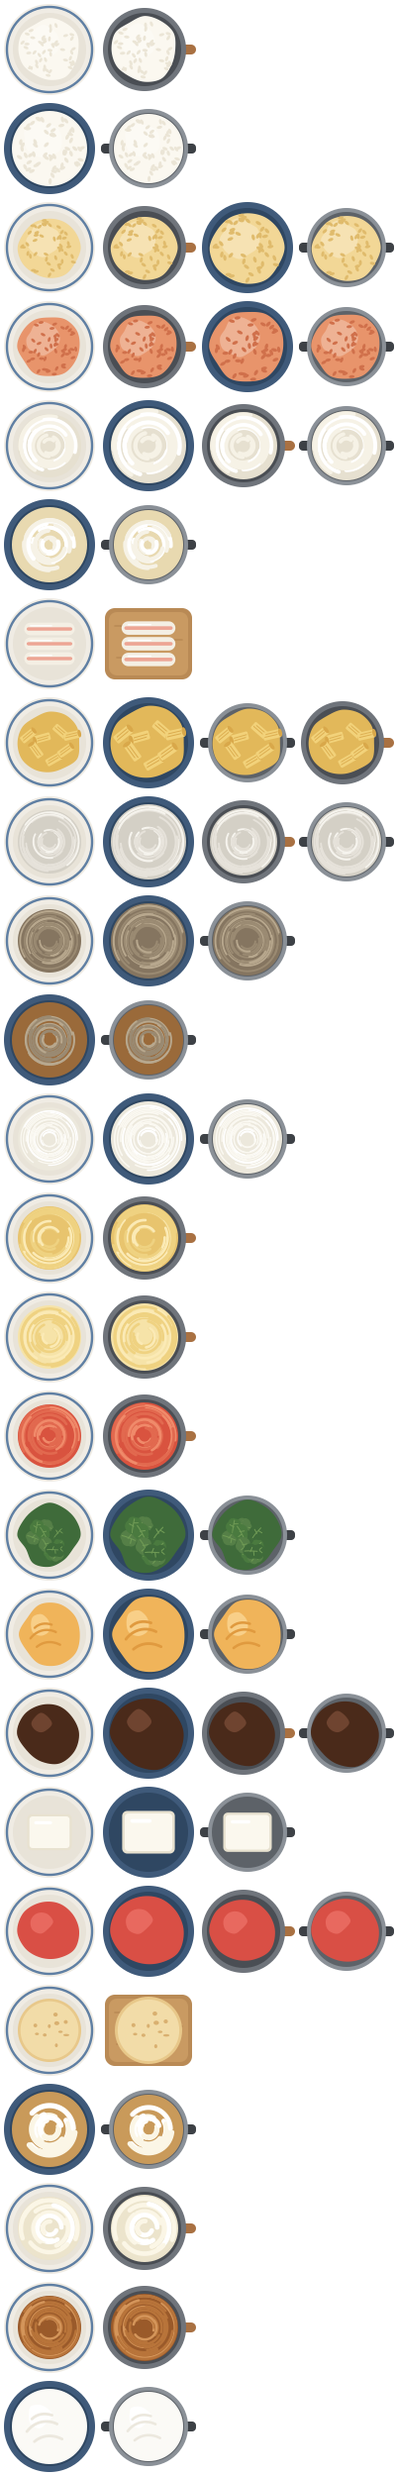
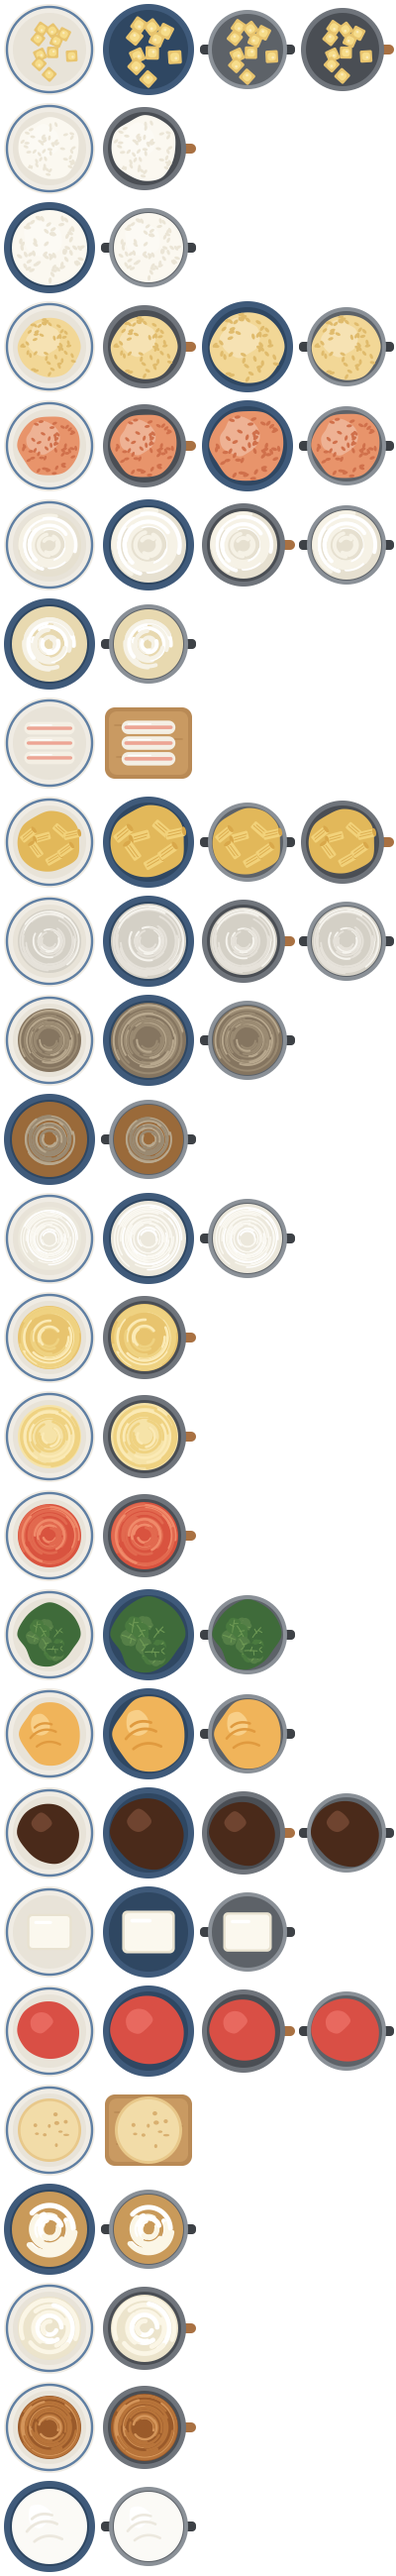
Add pasta as an ingredient

diff --git a/CulinaryIntelligence/Sources/CulinaryIntelligence/Models/IconCatalog.swift b/CulinaryIntelligence/Sources/CulinaryIntelligence/Models/IconCatalog.swift
@@ -272,6 +272,7 @@ public nonisolated enum IngredientCategory: String, CaseIterable, Identifiable, 
                 "oats",
                 "orzo",
                 "panko",
+                "pasta",
                 "penne",
                 "pita",
                 "polenta",
@@ -577,6 +578,7 @@ public nonisolated enum IconCatalog {
         "aji": "horse-mackerel",
         "ajinomoto": "msg",
         "amberjack": "yellowtail",
+        "angel hair": "spaghetti",
         "anise seed": "fennel-seeds",
         "aniseed": "fennel-seeds",
         "anzu": "apricot",
@@ -612,6 +614,7 @@ public nonisolated enum IconCatalog {
         "broth": "bouillon",
         "brown butter": "ghee",
         "brown mustard seeds": "mustard-seeds",
+        "bucatini": "spaghetti",
         "bulgogi sauce": "yakiniku-sauce",
         "buri": "yellowtail",
         "buri fillet": "yellowtail-fillet",
@@ -622,6 +625,7 @@ public nonisolated enum IconCatalog {
         "calamondin": "sudachi",
         "calf liver": "liver",
         "canned ham": "luncheon-meat",
+        "capellini": "spaghetti",
         "capsicum": "bell-pepper",
         "caraway": "fennel-seeds",
         "caraway seeds": "fennel-seeds",
@@ -669,6 +673,7 @@ public nonisolated enum IconCatalog {
         "cod steak": "cod-fillet",
         "comte": "gruyere",
         "comté": "gruyere",
+        "conchiglie": "pasta",
         "confectioners sugar": "icing-sugar",
         "corn flour": "cornstarch",
         "corn meal": "cornmeal",
@@ -700,6 +705,7 @@ public nonisolated enum IconCatalog {
         "dried cranberries": "cranberry",
         "dried fruit": "raisins",
         "dried onion": "onion-powder",
+        "dried pasta": "pasta",
         "dried prawns": "dried-shrimp",
         "dried radish strips": "kiriboshi-daikon",
         "dried shredded daikon": "kiriboshi-daikon",
@@ -711,6 +717,7 @@ public nonisolated enum IconCatalog {
         "emmental": "gruyere",
         "eringi": "king-oyster",
         "estragon": "tarragon",
+        "farfalle": "pasta",
         "fermented bamboo shoots": "menma",
         "filo": "puff-pastry",
         "fish cake": "kamaboko",
@@ -841,8 +848,10 @@ public nonisolated enum IconCatalog {
         "light treacle": "golden-syrup",
         "lilikoi": "passion-fruit",
         "lime leaves": "kaffir-lime-leaves",
+        "linguine": "spaghetti",
         "litchi": "lychee",
         "lo mein": "egg-noodles",
+        "long pasta": "pasta",
         "longan": "lychee",
         "low gluten flour": "cake-flour",
         "lox": "smoked-salmon",
@@ -880,12 +889,15 @@ public nonisolated enum IconCatalog {
         "okonomi sauce": "okonomiyaki-sauce",
         "onion granules": "onion-powder",
         "onion salt": "onion-powder",
+        "orecchiette": "pasta",
         "otafuku sauce": "okonomiyaki-sauce",
         "pacific saury": "saury",
         "pak choi": "bok-choy",
         "panir": "paneer",
+        "pappardelle": "fettuccine",
         "parmigiano": "parmesan",
         "passionfruit": "passion-fruit",
+        "pasta shells": "pasta",
         "pastry": "puff-pastry",
         "pastry flour": "cake-flour",
         "paua": "abalone",
@@ -937,6 +949,7 @@ public nonisolated enum IconCatalog {
         "rocket": "arugula",
         "roe": "salmon-roe",
         "roquefort": "blue-cheese",
+        "rotini": "fusilli",
         "saba": "mackerel",
         "saba fillet": "mackerel-fillet",
         "sakura ebi": "dried-shrimp",
@@ -969,6 +982,7 @@ public nonisolated enum IconCatalog {
         "shimi dofu": "koya-dofu",
         "shinachiku": "menma",
         "shirodashi": "shiro-dashi",
+        "short pasta": "pasta",
         "shortcrust pastry": "puff-pastry",
         "shredded coconut": "coconut-flakes",
         "shumai wrappers": "wonton-wrappers",
@@ -990,6 +1004,7 @@ public nonisolated enum IconCatalog {
         "somen noodles": "somen",
         "soy flour": "kinako",
         "soybean flour": "kinako",
+        "spaghettini": "spaghetti",
         "spam": "luncheon-meat",
         "spanish onion": "red-onion",
         "spicy cod roe": "mentaiko",
@@ -1025,6 +1040,7 @@ public nonisolated enum IconCatalog {
         "swiss cheese": "gruyere",
         "szechuan pepper": "sichuan-peppercorns",
         "szechuan peppercorns": "sichuan-peppercorns",
+        "tagliatelle": "fettuccine",
         "tai": "sea-bream",
         "tai fillet": "sea-bream-fillet",
         "takenoko": "bamboo-shoots",
@@ -1079,6 +1095,7 @@ public nonisolated enum IconCatalog {
         "yoghurt": "yogurt",
         "young jackfruit": "jackfruit",
         "zhacai": "zha-cai",
+        "ziti": "penne",
     ].reduce(into: [:]) { table, entry in table[normalized(entry.key)] = entry.value }
 
     /// Turns a schema icon path such as `img/ingredients/spring-onion.svg` into the catalog

diff --git a/CulinaryIntelligence/Sources/CulinaryIntelligence/Intelligence/RecipeGenerator+Ideas.swift b/CulinaryIntelligence/Sources/CulinaryIntelligence/Intelligence/RecipeGenerator+Ideas.swift
@@ -165,7 +165,7 @@ extension RecipeGenerator {
     /// Each starch with the catalog ingredients that make it, so a tomato pasta is made with
     /// penne as well as spaghetti.
     static let staples: [String: Set<String>] = [
-        "pasta": ["spaghetti", "penne", "fusilli", "fettuccine", "rigatoni", "macaroni", "lasagna", "orzo", "ravioli", "gnocchi"],
+        "pasta": ["pasta", "spaghetti", "penne", "fusilli", "fettuccine", "rigatoni", "macaroni", "lasagna", "orzo", "ravioli", "gnocchi"],
         "rice": ["rice", "arborio-rice", "glutinous-rice"],
         "noodles": ["noodles", "egg-noodles", "ramen", "udon", "soba", "somen", "rice-noodles", "harusame"],
         "bread": ["bread", "pita"],

diff --git a/CulinaryIntelligence/Sources/CulinaryIntelligence/Models/DishPlanner.swift b/CulinaryIntelligence/Sources/CulinaryIntelligence/Models/DishPlanner.swift
@@ -248,7 +248,7 @@ private nonisolated struct DishPlanner {
 
     /// Pasta that takes its sauce into its own fill, so the sauce is not drawn beside it.
     private static func pastaTakesSauce(_ asset: String) -> Bool {
-        ["spaghetti", "fettuccine", "penne", "rigatoni", "fusilli", "macaroni", "orzo", "gnocchi", "ravioli", "lasagna"]
+        ["pasta", "spaghetti", "fettuccine", "penne", "rigatoni", "fusilli", "macaroni", "orzo", "gnocchi", "ravioli", "lasagna"]
             .contains(asset)
     }
 

diff --git a/Assets/DishIcons/catalog.py b/Assets/DishIcons/catalog.py
@@ -293,6 +293,7 @@ V["noodles"] = {"swirl": fl(lambda r: noodles(r, "#f2d68a", "#fbeab5", "#e8c46e"
 V["oats"] = {"porridge": fl(lambda r: grains_in(r, "#efe2c4", "#dcc89c", 60, 2.2, 1.6, shape="full"), BOWLS)}
 V["orzo"] = {"pasta": fl(lambda r: grains_in(r, "#f2dc9a", "#e2c47a", 90, 2, 1.1), PLATES + BOWLS + ["pan"])}
 V["panko"] = {"crumbs": garnish(dust("#e8c47a", "#f6dca0"), 10, 4)}
+V["pasta"] = {"pasta": fl(lambda r: tiled(r, tube("#f2d27a", "#d9a84a"), 18, 13, base="#e2b85a"), PLATES + BOWLS + ["pan"])}
 V["penne"] = {"pasta": fl(lambda r: tiled(r, tube("#f2d27a", "#d9a84a"), 18, 13, base="#e2b85a"), PLATES + BOWLS + ["pan"])}
 V["pita"] = {"bread": fl(lambda r: flatbread(r, "#f2d8a0", "#d9a85c", "#e2bc7a", oval=True), FLAT), "wedges": p(triangle("#e8c47a", "#f6dca0"), 14, 4)}
 V["polenta"] = {"soft": fl(lambda r: smooth(r, "#f6cf5a", "#fbe08a"), PLATES + BOWLS)}
